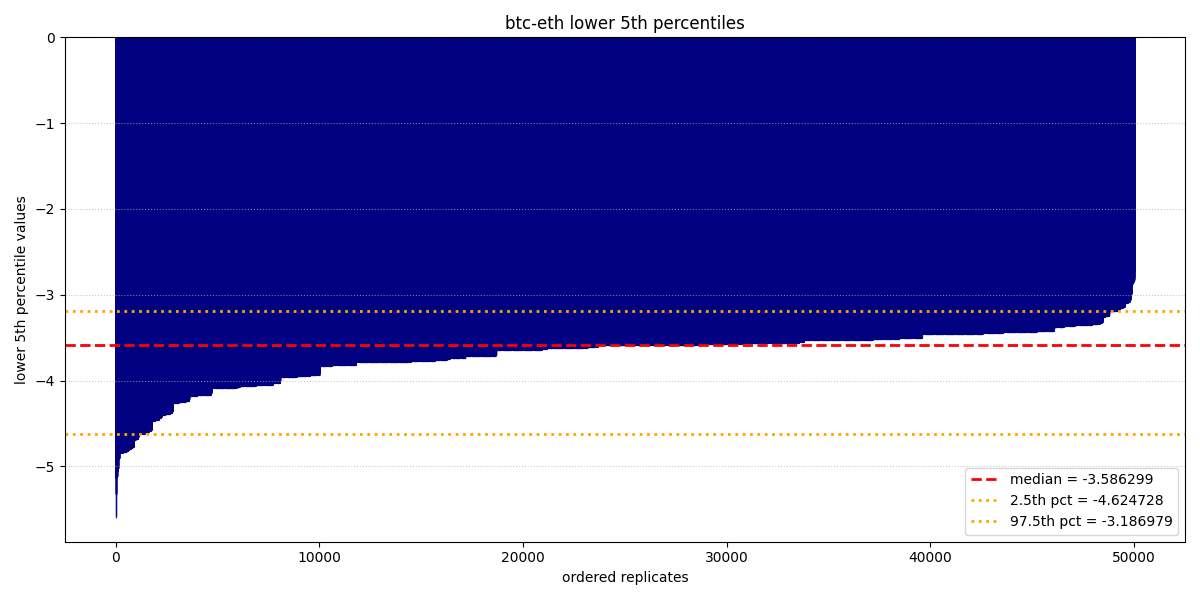
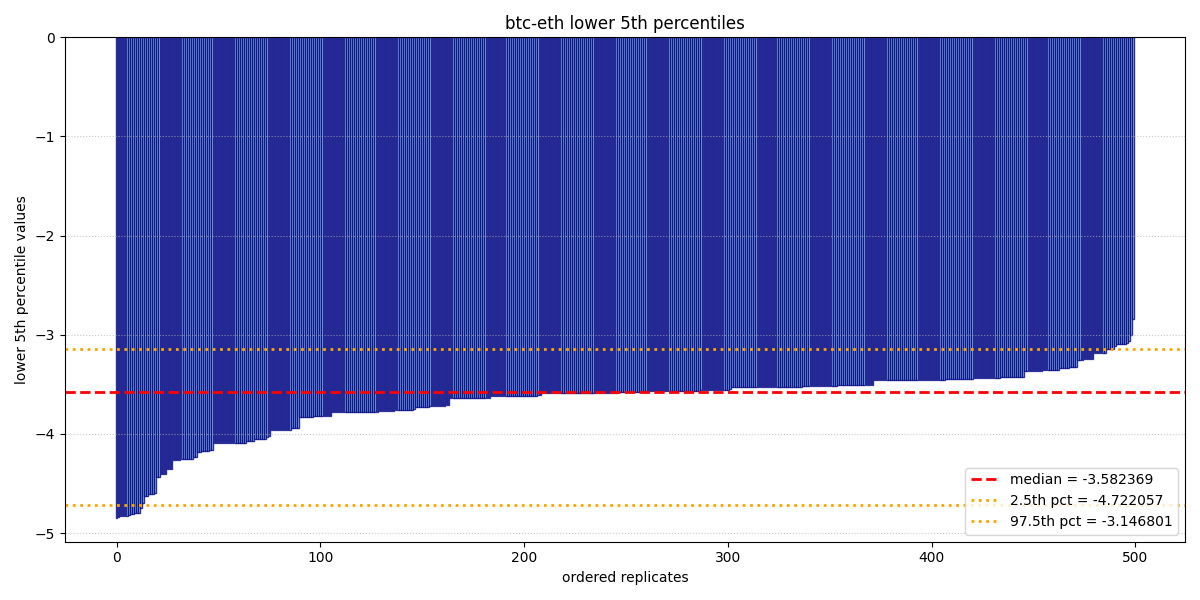
save

diff --git a/src/getStats.py b/src/getStats.py
@@ -29,7 +29,7 @@ def get_stats(asset1: str, asset2: str) -> None:
 
     draw_graph(asset1, asset2)
 
-    generate_replicates(asset1, asset2, 50000)
+    generate_replicates(asset1, asset2, 500)
 
     sort_reps(asset1, asset2)
 
